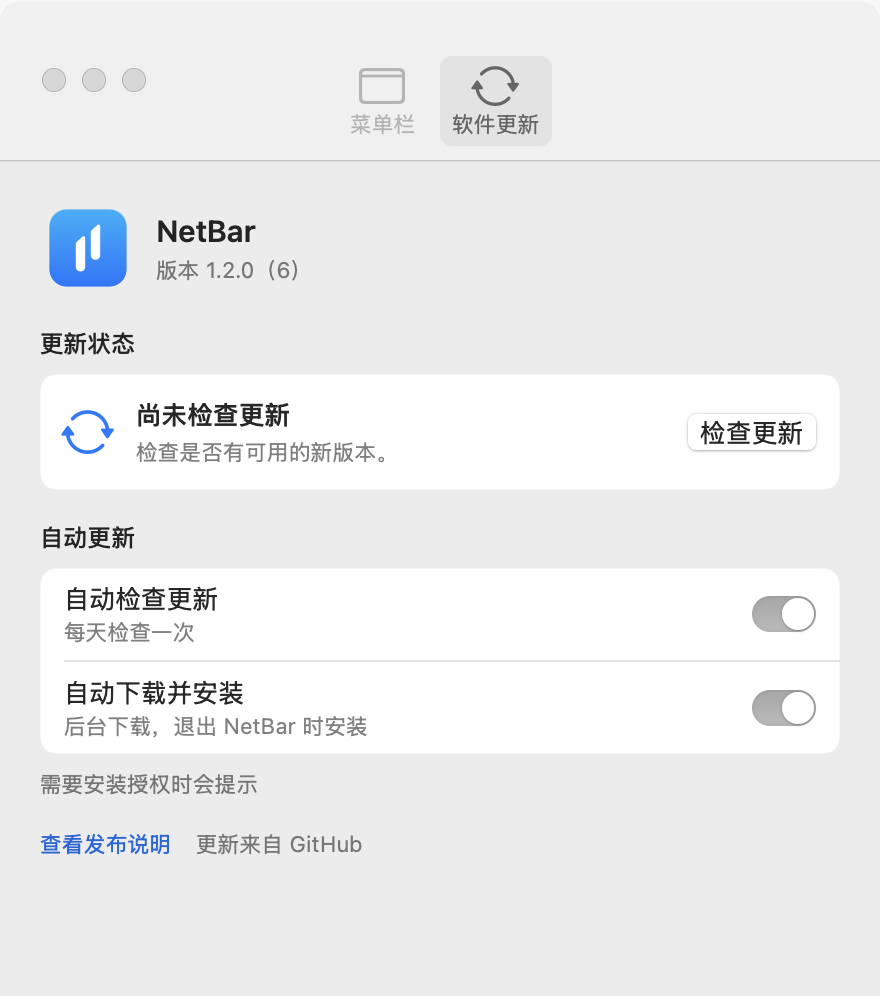
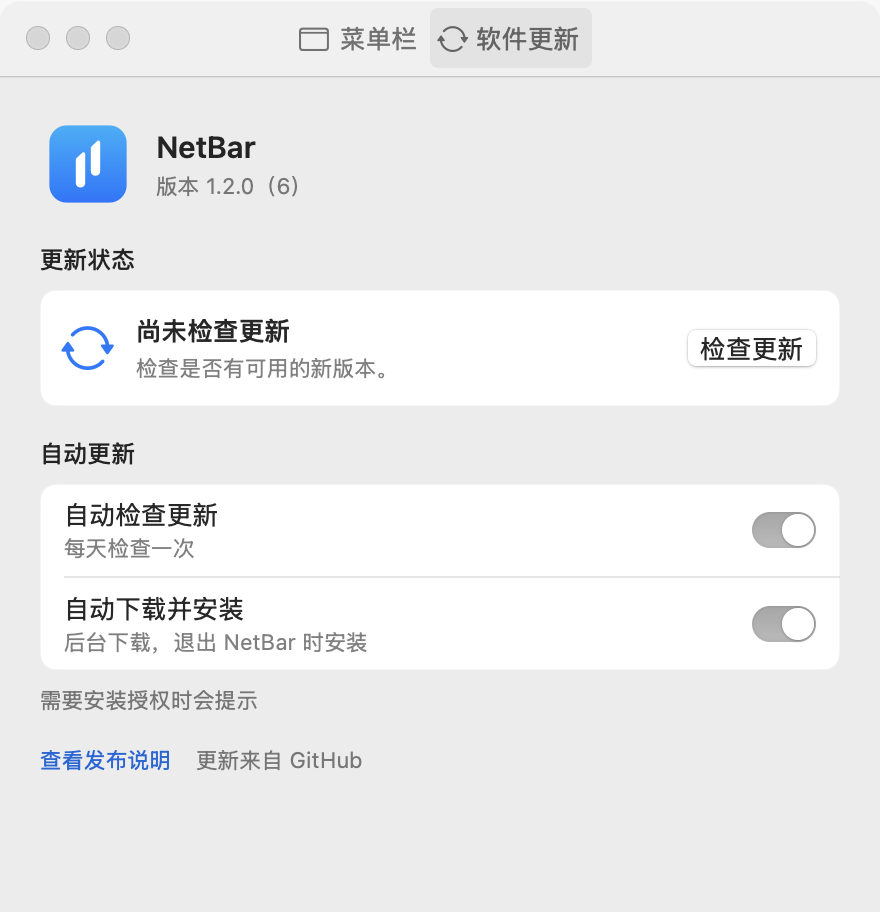
fix(settings): 压缩顶部工具栏并保留单行图文导航

diff --git a/Sources/NetBar/MenuBarSettingsView.swift b/Sources/NetBar/MenuBarSettingsView.swift
@@ -41,8 +41,8 @@ final class SettingsController: NSTabViewController, NSFontChanging {
         window.title = "NetBar 设置"
         window.titleVisibility = .hidden
         window.styleMask = [.titled, .closable, .miniaturizable]
-        window.toolbarStyle = .preference
-        window.toolbar?.displayMode = .iconAndLabel
+        window.toolbarStyle = .unifiedCompact
+        window.toolbar?.displayMode = .iconOnly
         window.toolbar?.allowsUserCustomization = false
         window.setContentSize(contentSize)
         window.isReleasedWhenClosed = false
@@ -51,6 +51,41 @@ final class SettingsController: NSTabViewController, NSFontChanging {
 
     override func toolbarDefaultItemIdentifiers(_ toolbar: NSToolbar) -> [NSToolbarItem.Identifier] {
         [.flexibleSpace] + super.toolbarDefaultItemIdentifiers(toolbar) + [.flexibleSpace]
+    }
+
+    override func toolbar(_ toolbar: NSToolbar, itemForItemIdentifier identifier: NSToolbarItem.Identifier,
+                          willBeInsertedIntoToolbar flag: Bool) -> NSToolbarItem? {
+        guard let item = super.toolbar(toolbar, itemForItemIdentifier: identifier, willBeInsertedIntoToolbar: flag) else {
+            return nil
+        }
+        guard let index = tabViewItems.firstIndex(where: { ($0.identifier as? String) == identifier.rawValue }) else {
+            return item
+        }
+        let button = NSButton(title: item.label, target: self, action: #selector(selectPage(_:)))
+        button.image = item.image?.withSymbolConfiguration(.init(pointSize: 13, weight: .regular))
+        button.imagePosition = .imageLeading
+        button.font = .systemFont(ofSize: 13)
+        button.bezelStyle = .texturedRounded
+        button.isBordered = false
+        button.setButtonType(.pushOnPushOff)
+        button.tag = index
+        button.state = selectedTabViewItemIndex == index ? .on : .off
+        button.toolTip = item.label
+        item.view = button
+        return item
+    }
+
+    @objc private func selectPage(_ sender: NSButton) {
+        selectedTabViewItemIndex = sender.tag
+        sender.state = .on
+    }
+
+    override func tabView(_ tabView: NSTabView, didSelect tabViewItem: NSTabViewItem?) {
+        super.tabView(tabView, didSelect: tabViewItem)
+        for item in view.window?.toolbar?.items ?? [] {
+            guard let button = item.view as? NSButton else { continue }
+            button.state = button.tag == selectedTabViewItemIndex ? .on : .off
+        }
     }
 
     override func tabView(_ tabView: NSTabView, willSelect tabViewItem: NSTabViewItem?) {

diff --git a/scripts/check-menu-bar.swift b/scripts/check-menu-bar.swift
@@ -234,9 +234,19 @@ struct CheckMenuBar {
             precondition(window.toolbar?.items.filter { $0.label == "菜单栏" || $0.label == "软件更新" }.count == 2,
                          "设置应使用包含两个页面的真实工具栏")
             let originalSize = window.frame.size
-            controller.selectedTabViewItemIndex = 1
+            let navigation = window.toolbar!.items.compactMap { $0.view as? NSButton }
+            precondition(navigation.count == 2 && navigation.allSatisfy { !$0.title.isEmpty && $0.image != nil },
+                         "紧凑导航应同时保留文字与图标")
+            let menuButton = navigation.first { $0.tag == 0 }!
+            let updateButton = navigation.first { $0.tag == 1 }!
+            updateButton.performClick(nil)
+            precondition(controller.selectedTabViewItemIndex == 1 && updateButton.state == .on && menuButton.state == .off,
+                         "点击更新导航应切页并同步选中状态")
+            updateButton.performClick(nil)
+            precondition(updateButton.state == .on, "重复点击当前页不能取消选中")
             precondition(window.frame.size == originalSize, "切换页面不应改变窗口尺寸")
-            controller.selectedTabViewItemIndex = 0
+            menuButton.performClick(nil)
+            precondition(controller.selectedTabViewItemIndex == 0 && menuButton.state == .on && updateButton.state == .off)
             controller.showFontPicker()
             let manager = NSFontManager.shared
             let panel = manager.fontPanel(false)!

diff --git a/docs/interface-design.md b/docs/interface-design.md
@@ -73,7 +73,7 @@
 
 设置从底部齿轮或面板内 ⌘, 打开独立原生窗口，避免字体菜单与临时弹出面板的关闭行为冲突。窗口按需创建，关闭后释放视图并关闭所属的系统字体面板；显示设置由独立状态对象持有并保存到用户偏好。
 
-设置内容区为 440 × 418 pt，标题栏与工具栏高度由系统决定；使用 `NSTabViewController` 的原生偏好工具栏切换“菜单栏”和“软件更新”，切页保持窗口尺寸。内容区外边距 20 pt、分组间距 16 pt、标题与内容间距 8 pt；分组圆角 8 pt，行高至少 34 pt。内容过长时纵向滚动，不裁切错误说明。沿用上表的动态系统颜色，标签左对齐、控件右对齐；正文 13 pt 常规字重、分组标题 12 pt 中等字重、说明与页脚 11 pt，原生控件使用 small 控件尺寸。
+设置内容区为 440 × 418 pt，标题栏与工具栏高度由系统决定；使用 `NSTabViewController` 管理页面，顶部采用 `unifiedCompact` 原生紧凑工具栏；“菜单栏”和“软件更新”以图标加文字的单行按钮切换，切页保持窗口尺寸。红绿灯位置由系统管理，不手动调整按钮坐标。内容区外边距 20 pt、分组间距 16 pt、标题与内容间距 8 pt；分组圆角 8 pt，行高至少 34 pt。内容过长时纵向滚动，不裁切错误说明。沿用上表的动态系统颜色，标签左对齐、控件右对齐；正文 13 pt 常规字重、分组标题 12 pt 中等字重、说明与页脚 11 pt，原生控件使用 small 控件尺寸。
 
 菜单栏页顶部为 56 pt 高的实际绘制器预览；下方依次排列显示模式、网速样式、自动保存说明及恢复默认按钮。字体行显示当前字体，“选择…”菜单提供系统默认与“其他字体…”入口，后者打开系统字体面板，仅选择字族和字形，字号仍在设置页调整。缺失字体显示回退说明，较长名称在行内截断并可悬停查看。切页、切换显示模式、恢复默认及关闭设置时关闭所属字体面板，避免不可见的编辑目标继续修改偏好。紧凑布局与字号层级的取舍见[设置窗口决策](notes/implemented/feature/2026-10-23-compact-settings.md)。
 

diff --git a/docs/notes/implemented/feature/2026-10-23-compact-settings.md b/docs/notes/implemented/feature/2026-10-23-compact-settings.md
@@ -8,13 +8,15 @@ Status: implemented
 
 ## Decision
 
-由 `NSTabViewController` 提供真实偏好工具栏与页面选择；SwiftUI 页面共用分组、行和字体层级。设置窗口保持固定尺寸，内容可纵向滚动，使长说明仍可访问。尺寸与视觉契约由[界面设计说明](../../../interface-design.md#菜单栏设置)维护。
+由 `NSTabViewController` 管理页面选择，窗口采用 `unifiedCompact` 工具栏，原生按钮横排图标与文字；SwiftUI 页面共用分组、行和字体层级。设置窗口保持固定尺寸，内容可纵向滚动，使长说明仍可访问。尺寸与视觉契约由[界面设计说明](../../../interface-design.md#菜单栏设置)维护。
 
 以系统字体面板替代应用枚举字体列表，继续保存既有字体名称，菜单提供返回系统默认的入口。面板只负责字族和字形，字号继续由原有范围控制。字体操作目标由设置控制器持有；离开菜单栏页或关闭设置时清除目标并关闭面板，迟到回调不更新偏好。此决定部分取代[菜单栏偏好](2026-10-22-menu-bar-preferences.md)的字体列表实现，其存储与渲染约束保持有效。
 
 更新页缩小品牌区，突出状态与检查操作；仍仅转发到应用级更新控制器，不改变[更新生命周期](../architecture/2026-10-23-sparkle-updates.md)。有历史检查时间但本次启动尚未检查时，不将其描述成从未检查或已是最新。
 
 ## Alternatives considered
+
+- 原生 `.preference` 两行工具栏：实测顶部约 80 pt，红绿灯上方留白不符合紧凑目标；改为单行紧凑样式，保留系统红绿灯布局。单独切换工具栏样式会隐藏页面文字，因此用原生按钮保留图标和标题。
 
 - 保留内容区分段导航：容易与显示模式混淆，原生偏好工具栏能表达页面层级并提供系统键盘及可访问性行为。
 - 增加侧栏：只有两个页面，不值得额外占据横向空间。
